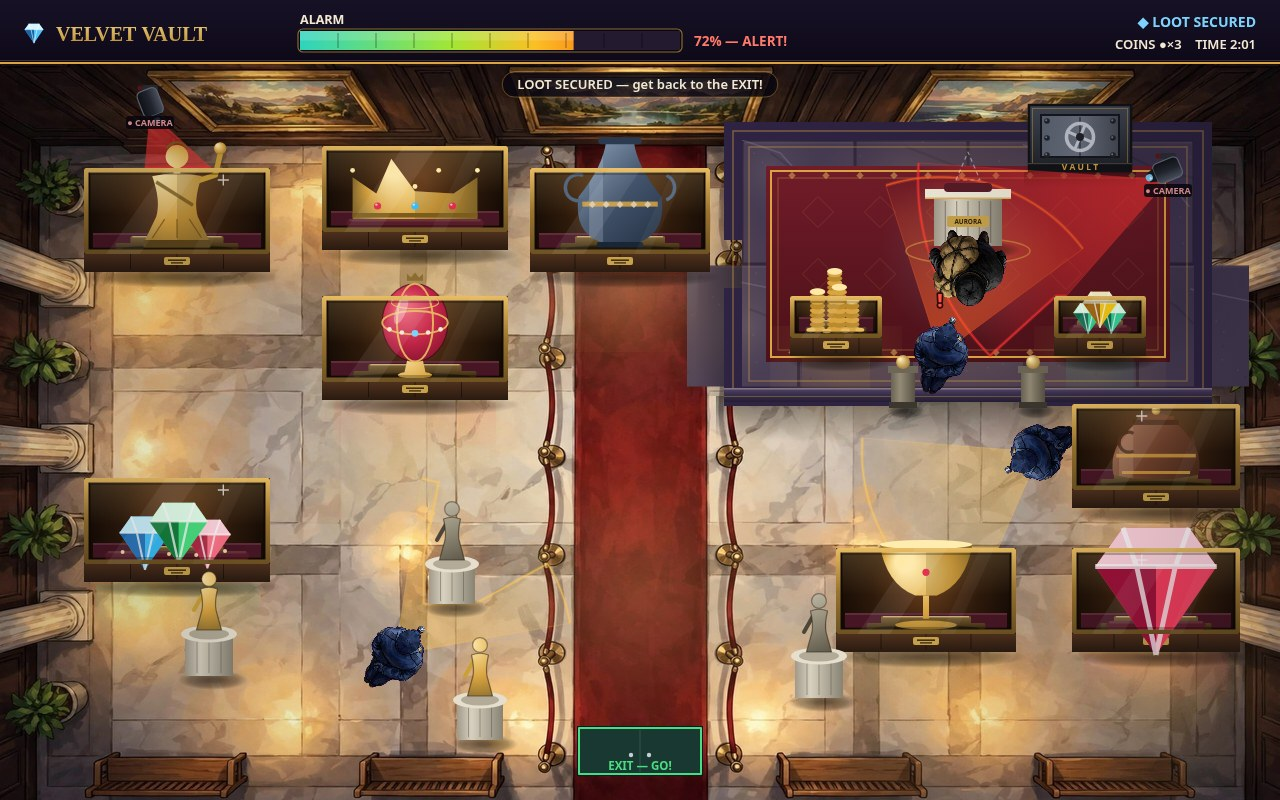
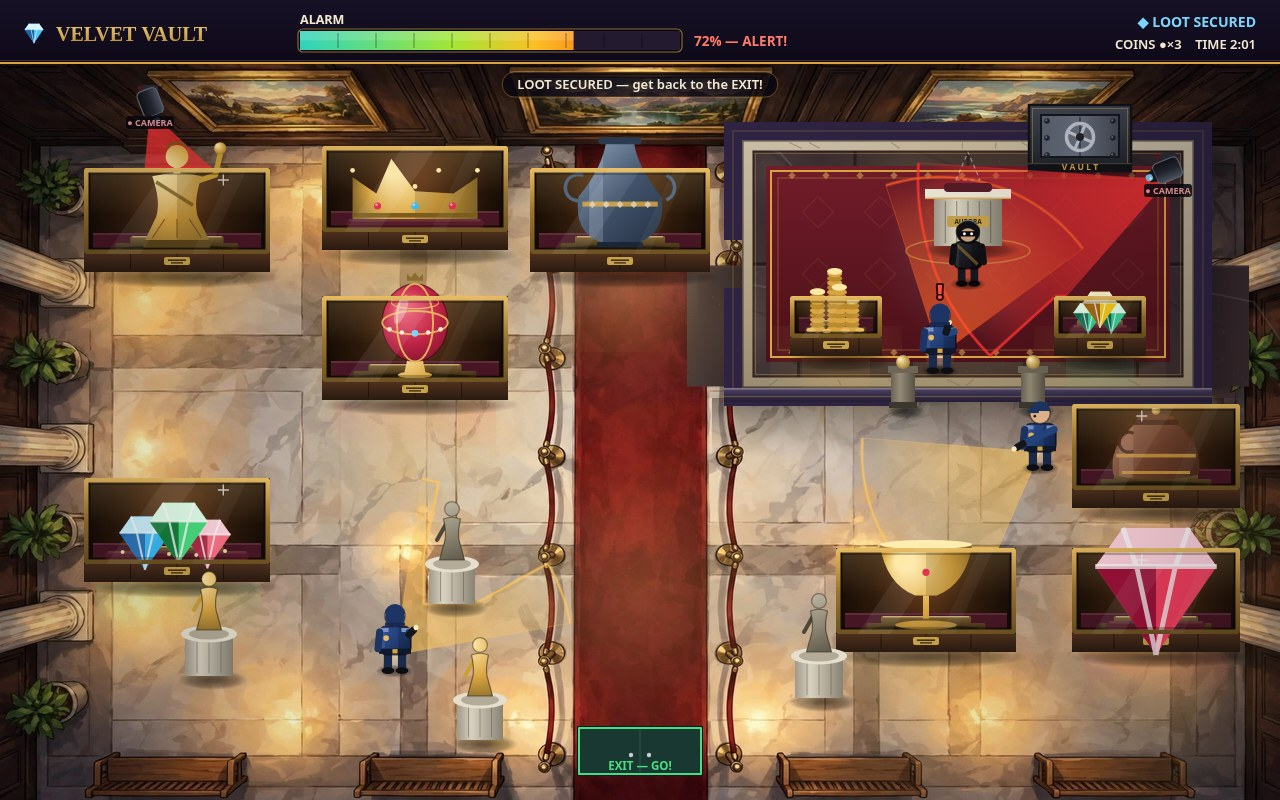
Velvet Vault v5.1: hybrid fix — v4.1 code-drawn figures restored on the illustrated hall (generated guard/thief sprites and the chroma-key path removed, sprite PNGs deleted); vault chamber grounded with a pale marble border frame, dark warm marble platform floor and a softer wider platform shadow, h

Changed region(s): [[0.5312, 0.1562, 1.0, 0.5938], [0.2812, 0.75, 0.3438, 0.875], [0.0938, 0.1562, 0.1562, 0.2188]]

diff --git a/game/src/render.js b/game/src/render.js
@@ -119,117 +119,43 @@ function drawDiamondGem(ctx, x, y, s, cTop, cMid, cDeep) {
   ctx.restore();
 }
 
-// --- v5 illustrated assets ---------------------------------------------
-// v5 changes the art MEDIUM. The hall's floor, walls, paintings,
-// plants, benches and carpet are no longer drawn shape by shape:
-// they come from one generated painterly illustration
-// (assets/hall.jpg), and the actors are generated character
-// sprites (assets/guard.png, assets/thief.png) photographed on
-// solid magenta and chroma-keyed to transparency once at load.
-// Everything gameplay-shaped — cases, artifacts, the vault, the
-// cones, the HUD — is still drawn in code exactly as in v4.1, and
-// if any asset fails to load the v4.1 procedural rendering below
+// --- The illustrated hall (v5; actors reverted in v5.1) -----------------
+// The hall's floor, walls, paintings, plants, benches and carpet
+// are no longer drawn shape by shape: they come from one generated
+// painterly illustration (assets/hall.jpg). Everything
+// gameplay-shaped — cases, artifacts, the vault, the cones, the
+// HUD — is still drawn in code exactly as in v4.1, and if the
+// illustration fails to load the v4.1 procedural rendering below
 // takes over untouched, so the game can never break on a missing
-// file. Asset URLs are relative to game/index.html, so they keep
-// working when main.ts copies game/ into the output directory.
+// file. The actors are the v4.1 code-drawn figures: v5 briefly
+// used generated character sprites here, but at full-frame size
+// they read as dark crumpled blobs rather than people, so the
+// sprites (and their chroma-key path) were removed again. The
+// asset URL is relative to game/index.html, so it keeps working
+// when main.ts copies game/ into the output directory.
 
-const ASSETS = { epoch: 0, settled: 0, hall: null, guard: null, thief: null };
+const ASSETS = { epoch: 0, settled: 0, hall: null };
 
 function illustrated() {
   return !!(ASSETS.hall && ASSETS.hall.naturalWidth > 0);
 }
 
-// Key one magenta-backed sprite: pixels near pure magenta become
-// transparent with a feathered edge, edge pixels are un-mixed from
-// the magenta they were blended with (so no pink fringe survives),
-// and the result is cropped to the figure's bounding box.
-function keySprite(img) {
-  const MAX = 360;
-  const scale = Math.min(1, MAX / Math.max(img.naturalWidth, img.naturalHeight));
-  const w = Math.max(1, Math.round(img.naturalWidth * scale));
-  const h = Math.max(1, Math.round(img.naturalHeight * scale));
-  const c = document.createElement('canvas');
-  c.width = w;
-  c.height = h;
-  const x = c.getContext('2d', { willReadFrequently: true });
-  x.drawImage(img, 0, 0, w, h);
-  let data;
-  try {
-    data = x.getImageData(0, 0, w, h);
-  } catch {
-    return null; // tainted or unreadable: fall back to code figures
-  }
-  const px = data.data;
-  let minX = w;
-  let minY = h;
-  let maxX = -1;
-  let maxY = -1;
-  for (let i = 0; i < px.length; i += 4) {
-    const r = px[i];
-    const g = px[i + 1];
-    const b = px[i + 2];
-    const d = Math.hypot(r - 255, g, b - 255);
-    let a = 255;
-    if (d <= 70) a = 0;
-    else if (d < 190) a = Math.round(((d - 70) / 120) * 255);
-    if (a > 0 && a < 255) {
-      const af = a / 255;
-      const ia = 1 - af;
-      px[i] = Math.max(0, Math.min(255, (r - ia * 255) / af));
-      px[i + 1] = Math.max(0, Math.min(255, g / af));
-      px[i + 2] = Math.max(0, Math.min(255, (b - ia * 255) / af));
-    }
-    px[i + 3] = a;
-    if (a > 12) {
-      const X = (i / 4) % w;
-      const Y = Math.floor(i / 4 / w);
-      if (X < minX) minX = X;
-      if (X > maxX) maxX = X;
-      if (Y < minY) minY = Y;
-      if (Y > maxY) maxY = Y;
-    }
-  }
-  if (maxX < 0) return null;
-  x.putImageData(data, 0, 0);
-  const cw = maxX - minX + 1;
-  const ch = maxY - minY + 1;
-  const out = document.createElement('canvas');
-  out.width = cw;
-  out.height = ch;
-  out.getContext('2d').drawImage(c, minX, minY, cw, ch, 0, 0, cw, ch);
-  return { canvas: out, w: cw, h: ch };
-}
-
 function assetSettled() {
   ASSETS.settled++;
   ASSETS.epoch++;
-  if (ASSETS.settled >= 3) window.__velvetAssetsSettled = true;
+  window.__velvetAssetsSettled = true;
 }
 
 function loadAsset(src, key) {
   const img = new Image();
   img.onload = () => {
-    ASSETS[key] = key === 'hall' ? img : keySprite(img);
+    ASSETS[key] = img;
     assetSettled();
   };
   img.onerror = () => assetSettled();
   img.src = src;
 }
 loadAsset('assets/hall.jpg', 'hall');
-loadAsset('assets/guard.png', 'guard');
-loadAsset('assets/thief.png', 'thief');
-
-// Draw a keyed sprite centred on (x, y), rotated so the figure's
-// head — up in the source image — points along `facing`.
-function drawSprite(ctx, spr, x, y, facing, size) {
-  const s = size / spr.h;
-  ctx.save();
-  ctx.translate(x, y);
-  ctx.rotate(facing + Math.PI / 2);
-  ctx.scale(s, s);
-  ctx.drawImage(spr.canvas, -spr.w / 2, -spr.h / 2);
-  ctx.restore();
-}
 
 // --- The static hall ------------------------------------------------
 
@@ -459,13 +385,53 @@ function buildStatic(game) {
     paintSlabs(ctx, 24, 104, 1256, 776, 213, 168,
       ['#3a3f52', '#343949', '#3f4459', '#313644', '#383d4e'], '#22242e');
   }
-  // -- The vault's own floor: warmer stone.
+  // -- The vault's own floor: dark warm marble — charcoal-brown
+  // slabs with the same mottling and veining as the hall's stone,
+  // so the chamber reads as a room floored in a darker cut of the
+  // same marble, not as a flat maroon panel pasted over the hall.
   paintSlabs(ctx, vaultFloor.x, vaultFloor.y, vaultFloor.x + vaultFloor.w,
     vaultFloor.y + vaultFloor.h, 113, 124,
-    ['#463a52', '#413550', '#4a3e56'], '#2c2338');
-  ctx.strokeStyle = 'rgba(217,164,65,0.4)';
-  ctx.lineWidth = 1.5;
-  ctx.strokeRect(vaultFloor.x + 7, vaultFloor.y + 7, vaultFloor.w - 14, vaultFloor.h - 14);
+    ['#3b2d2f', '#362a2c', '#403335'], '#211719');
+  // -- A pale marble border frame set into the platform's edge:
+  // a light stone band (veined, with a dark seam on each side)
+  // running the platform's perimeter between the walls and the
+  // carpet, tying the chamber's floor to the hall's pale marble.
+  const vf = vaultFloor;
+  const fbg = ctx.createLinearGradient(vf.x, vf.y, vf.x, vf.y + vf.h);
+  fbg.addColorStop(0, '#c9bda6');
+  fbg.addColorStop(0.5, '#b3a68d');
+  fbg.addColorStop(1, '#998c73');
+  ctx.fillStyle = fbg;
+  ctx.fillRect(vf.x, vf.y, vf.w, 11);
+  ctx.fillRect(vf.x, vf.y + vf.h - 11, vf.w, 11);
+  ctx.fillRect(vf.x, vf.y, 11, vf.h);
+  ctx.fillRect(vf.x + vf.w - 11, vf.y, 11, vf.h);
+  // Vein strokes wandering along the north and south bands.
+  ctx.strokeStyle = 'rgba(92,80,62,0.4)';
+  ctx.lineWidth = 1.1;
+  for (let i = 0; i < 7; i++) {
+    const vx = vf.x + 26 + hash2(i, 3) * (vf.w - 70);
+    ctx.beginPath();
+    ctx.moveTo(vx, vf.y + 2.5);
+    ctx.lineTo(vx + 13 - hash2(i, 5) * 22, vf.y + 8.5);
+    ctx.stroke();
+    const vx2 = vf.x + 26 + hash2(i, 11) * (vf.w - 70);
+    ctx.beginPath();
+    ctx.moveTo(vx2, vf.y + vf.h - 8.5);
+    ctx.lineTo(vx2 + 13 - hash2(i, 13) * 22, vf.y + vf.h - 2.5);
+    ctx.stroke();
+  }
+  // Seams: a dark line where the frame meets the wall, and one
+  // where it meets the dark floor, with a gold hairline inside.
+  ctx.strokeStyle = 'rgba(14,9,9,0.55)';
+  ctx.lineWidth = 1.6;
+  ctx.strokeRect(vf.x + 0.8, vf.y + 0.8, vf.w - 1.6, vf.h - 1.6);
+  ctx.strokeStyle = 'rgba(26,17,14,0.65)';
+  ctx.lineWidth = 1.4;
+  ctx.strokeRect(vf.x + 11, vf.y + 11, vf.w - 22, vf.h - 22);
+  ctx.strokeStyle = 'rgba(217,164,65,0.35)';
+  ctx.lineWidth = 1;
+  ctx.strokeRect(vf.x + 13.5, vf.y + 13.5, vf.w - 27, vf.h - 27);
 
   // -- Warm light pools spilling from the case clusters.
   for (const p of decor.lightPools) {
@@ -734,25 +700,39 @@ function buildStatic(game) {
   }
   }
 
-  // -- The vault platform: a shadow the raised chamber throws onto
-  // the hall floor to its south and west.
-  const psh = ctx.createLinearGradient(0, 396, 0, 440);
-  psh.addColorStop(0, 'rgba(0,0,0,0.44)');
-  psh.addColorStop(1, 'rgba(0,0,0,0)');
+  // -- The vault platform: the soft shadow the raised chamber
+  // throws onto the hall floor around its exposed sides — a wide
+  // feathered falloff to the south, gentler ones west and east —
+  // so the platform sits IN the hall's light instead of floating
+  // on top of the marble as a pasted panel.
+  const psh = ctx.createLinearGradient(0, 398, 0, 458);
+  psh.addColorStop(0, 'rgba(8,4,6,0.42)');
+  psh.addColorStop(0.45, 'rgba(8,4,6,0.20)');
+  psh.addColorStop(1, 'rgba(8,4,6,0)');
   ctx.fillStyle = psh;
-  ctx.fillRect(716, 396, 504, 44);
-  const pshW = ctx.createLinearGradient(694, 0, 742, 0);
-  pshW.addColorStop(0, 'rgba(0,0,0,0)');
-  pshW.addColorStop(1, 'rgba(0,0,0,0.36)');
+  ctx.fillRect(712, 398, 512, 60);
+  const pshW = ctx.createLinearGradient(690, 0, 742, 0);
+  pshW.addColorStop(0, 'rgba(8,4,6,0)');
+  pshW.addColorStop(0.6, 'rgba(8,4,6,0.16)');
+  pshW.addColorStop(1, 'rgba(8,4,6,0.32)');
   ctx.fillStyle = pshW;
-  ctx.fillRect(694, 132, 48, 264);
+  ctx.fillRect(690, 130, 52, 268);
+  const pshE = ctx.createLinearGradient(1212, 0, 1254, 0);
+  pshE.addColorStop(0, 'rgba(8,4,6,0.28)');
+  pshE.addColorStop(0.5, 'rgba(8,4,6,0.12)');
+  pshE.addColorStop(1, 'rgba(8,4,6,0)');
+  ctx.fillStyle = pshE;
+  ctx.fillRect(1212, 130, 42, 268);
 
   // -- Vault walls: heavy bands with gold trim.
   ctx.fillStyle = '#2e2342';
   for (const r of game.level.solids) {
     if (r.kind === 'vault') ctx.fillRect(r.x, r.y, r.w, r.h);
   }
-  ctx.strokeStyle = 'rgba(217,164,65,0.5)';
+  // A faint gold trim inside the wall line — kept dim on purpose:
+  // at full strength this rectangle was the chamber's hardest
+  // edge and a big part of why it read as a pasted UI panel.
+  ctx.strokeStyle = 'rgba(217,164,65,0.22)';
   ctx.lineWidth = 1.4;
   ctx.strokeRect(733, 131, 470, 266);
 
@@ -1626,9 +1606,16 @@ function drawConeSoft(ctx, poly, ox, oy, range, rgb, hot, mul = 1) {
   ctx.clip();
   const a = (v) => Math.min(0.9, v * mul);
   const g = ctx.createRadialGradient(ox, oy, 3, ox, oy, range);
-  g.addColorStop(0, `rgba(${rgb},${a(hot ? 0.60 : 0.52)})`);
-  g.addColorStop(0.45, `rgba(${rgb},${a(hot ? 0.40 : 0.34)})`);
-  g.addColorStop(0.8, `rgba(${rgb},${a(hot ? 0.20 : 0.17)})`);
+  // v5.1: the stops sit above v4.1's (calm 0.52/0.34/0.17, hot
+  // 0.60/0.40/0.20). On the illustrated hall's BRIGHT marble a
+  // calm cone at the old strength washed out — worst in the
+  // patrol shot, where the fan's run across the lane is short —
+  // so calm is raised until it reads on the marble, and hot is
+  // raised with it to keep alert clearly stronger than calm.
+  // The radial falloff keeps the edges soft.
+  g.addColorStop(0, `rgba(${rgb},${a(hot ? 0.72 : 0.66)})`);
+  g.addColorStop(0.45, `rgba(${rgb},${a(hot ? 0.50 : 0.45)})`);
+  g.addColorStop(0.8, `rgba(${rgb},${a(hot ? 0.27 : 0.24)})`);
   g.addColorStop(1, `rgba(${rgb},0)`);
   ctx.fillStyle = g;
   ctx.fillRect(ox - range, oy - range, range * 2, range * 2);
@@ -1641,10 +1628,10 @@ function drawConeSoft(ctx, poly, ox, oy, range, rgb, hot, mul = 1) {
     ctx.moveTo(poly[1].x, poly[1].y);
     for (let i = 2; i < poly.length; i++) ctx.lineTo(poly[i].x, poly[i].y);
     ctx.lineJoin = 'round';
-    ctx.strokeStyle = `rgba(${rgb},${Math.min(0.9, (hot ? 0.30 : 0.26) * mul)})`;
+    ctx.strokeStyle = `rgba(${rgb},${Math.min(0.9, (hot ? 0.38 : 0.36) * mul)})`;
     ctx.lineWidth = 3.5;
     ctx.stroke();
-    ctx.strokeStyle = `rgba(${rgb},${Math.min(0.9, (hot ? 0.55 : 0.48) * mul)})`;
+    ctx.strokeStyle = `rgba(${rgb},${Math.min(0.9, (hot ? 0.64 : 0.60) * mul)})`;
     ctx.lineWidth = 1.4;
     ctx.stroke();
   }
@@ -1653,7 +1640,7 @@ function drawConeSoft(ctx, poly, ox, oy, range, rgb, hot, mul = 1) {
   ctx.moveTo(poly[0].x, poly[0].y);
   for (let i = 1; i < poly.length; i++) ctx.lineTo(poly[i].x, poly[i].y);
   ctx.closePath();
-  ctx.strokeStyle = `rgba(${rgb},${Math.min(0.9, (hot ? 0.32 : 0.24) * mul)})`;
+  ctx.strokeStyle = `rgba(${rgb},${Math.min(0.9, (hot ? 0.38 : 0.30) * mul)})`;
   ctx.lineWidth = 1;
   ctx.stroke();
 }
@@ -1773,37 +1760,7 @@ function facingDir(facing) {
   return c > 0 ? 'right' : 'left';
 }
 
-// The alert marks, drawn above a sprite guard's head (the code
-// figure draws its own inside guardBody).
-function drawGuardMark(ctx, g, x, y) {
-  ctx.textAlign = 'center';
-  if (g.sees > 0 || g.state === 'converge') {
-    ctx.font = '900 17px system-ui, sans-serif';
-    ctx.lineWidth = 3.4;
-    ctx.strokeStyle = 'rgba(20,4,4,0.85)';
-    ctx.strokeText('!', x, y);
-    ctx.fillStyle = '#ff5147';
-    ctx.fillText('!', x, y);
-  } else if (g.state === 'investigate') {
-    ctx.font = '900 15px system-ui, sans-serif';
-    ctx.lineWidth = 3.2;
-    ctx.strokeStyle = 'rgba(20,14,2,0.85)';
-    ctx.strokeText('?', x, y);
-    ctx.fillStyle = '#fbbf24';
-    ctx.fillText('?', x, y);
-  }
-}
-
 function drawGuardFigure(ctx, g, time) {
-  // v5: the illustrated sprite, rotated to facing, with a soft
-  // contact shadow so the figure stands IN the hall. Until the
-  // sprite is keyed (or if it failed), the v4.1 code figure draws.
-  if (ASSETS.guard) {
-    softShadow(ctx, g.x, g.y + 13, 22, 8, 0.48);
-    drawSprite(ctx, ASSETS.guard, g.x, g.y, g.facing, 80);
-    drawGuardMark(ctx, g, g.x, g.y - 48);
-    return;
-  }
   const feetY = g.y + 15;
   figureScale(ctx, g.x, feetY, 1.18, () => guardBody(ctx, g, time, feetY));
 }
@@ -1949,27 +1906,6 @@ function guardBody(ctx, g, time, feetY) {
 
 function drawThiefFigure(ctx, game) {
   const t = game.thief;
-  // v5: the illustrated sprite (hood, sack and all), rotated to
-  // facing over a soft contact shadow; the v4.1 code figure is
-  // the fallback until the sprite is keyed.
-  if (ASSETS.thief) {
-    softShadow(ctx, t.x, t.y + 13, 21, 7.5, 0.5);
-    drawSprite(ctx, ASSETS.thief, t.x, t.y, t.facing, 76);
-    if (game.nearLoot) {
-      ctx.fillStyle = 'rgba(10,8,16,0.88)';
-      rr(ctx, t.x - 10, t.y - 62, 20, 15, 4);
-      ctx.fill();
-      ctx.strokeStyle = GOLD;
-      ctx.lineWidth = 1;
-      rr(ctx, t.x - 10, t.y - 62, 20, 15, 4);
-      ctx.stroke();
-      ctx.fillStyle = GOLD;
-      ctx.font = '700 10.5px system-ui, sans-serif';
-      ctx.textAlign = 'center';
-      ctx.fillText('E', t.x, t.y - 50.5);
-    }
-    return;
-  }
   const feetY = t.y + 15;
   figureScale(ctx, t.x, feetY, 1.2, () => thiefBody(ctx, game, feetY));
 }

diff --git a/game/src/main.js b/game/src/main.js
@@ -159,17 +159,15 @@ function stageShot(name) {
     game.time = 83;
     game.alarm = 12;
     game.peakAlarm = 21;
-    // The thief pressed against the egg case's east face while
-    // the hall guard, in the open west of the case, sweeps his
-    // cone into its glass — the case itself is her cover.
-    place(game.thief, 548, 352, Math.PI);
-    // v5 staging: in v4.1 the guard stood in the 46px lane north
-    // of the case and his fan read on the dark slate. On v5's
-    // bright illustrated marble that short fan all but vanishes,
-    // so he now stands west of the case and the fan runs the
-    // length of its dark glass before the case cuts it off —
-    // the same hide-behind-the-case moment, readable again.
-    place(gA, 262, 348, 0);
+    // The thief pressed against the egg case's south face while
+    // the hall guard, in the lane just north of the case, sweeps
+    // his cone into its glass — the case itself is her cover.
+    place(game.thief, 415, 428, -Math.PI / 2);
+    // gA stands 10px further north than v4 staged him: with his
+    // feet almost on the egg case, the cone's whole run was sprite
+    // and glass and the fan never showed on the floor. From here
+    // the fan opens across the lane before it hits the case.
+    place(gA, 415, 252, Math.PI / 2);
     place(gB, 1040, 470, Math.PI / 2);
     place(gC, 960, 352, -0.5);
     camA.facing = 1.8;
